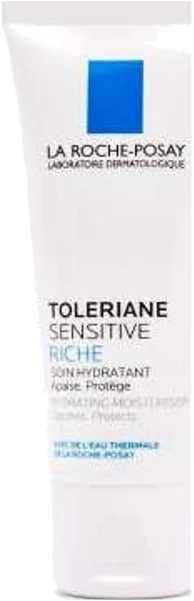
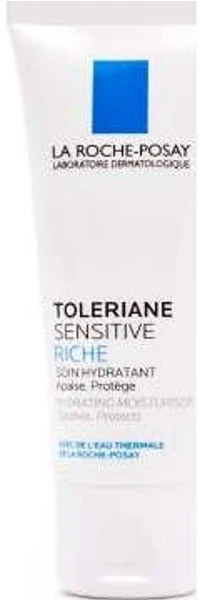
Cartes routines : produits en fond blanc fusionne (multiply), nouveau titre de section
Claude-Session: https://claude.ai/code/session_01RQ4GMeZytdPi95et2aZoPf

diff --git a/frontend/src/components/SkinRoutinesSection.jsx b/frontend/src/components/SkinRoutinesSection.jsx
@@ -14,12 +14,12 @@ export default function SkinRoutinesSection() {
   return (
     <section className="relative px-6 py-20 md:py-24" data-testid="skin-routines-section">
       <div className="max-w-7xl mx-auto">
-        <div className="text-center max-w-2xl mx-auto">
+        <div className="text-center max-w-4xl mx-auto">
           <p className="text-xs uppercase tracking-[0.2em] text-[#79C1E0] font-semibold">Nos routines sur mesure</p>
-          <h2 className="mt-3 text-3xl md:text-4xl font-bold leading-tight text-neutral-900">
-            <span className="text-[#79C1E0]">Une peau unique,</span> <span className="editorial text-[#F2709C]">des solutions adaptées.</span>
+          <h2 className="mt-3 text-3xl md:text-5xl font-bold text-[#79C1E0] leading-tight">
+            Trouve la routine parfaite <span className="editorial text-[#FEC4D2]">pour ta peau</span>
           </h2>
-          <p className="mt-4 text-neutral-600 leading-relaxed">
+          <p className="mt-4 text-neutral-600 leading-relaxed max-w-2xl mx-auto">
             Peau grasse, taches, boutons ou sécheresse : choisis ton besoin et découvre la routine et les produits adaptés, sélectionnés parmi les meilleurs soins du moment.
           </p>
         </div>
@@ -61,10 +61,10 @@ export default function SkinRoutinesSection() {
                         rel="sponsored nofollow noopener noreferrer"
                         title={p.name}
                         aria-label={p.name}
-                        className={`block w-[38%] shrink-0 transition-transform duration-300 hover:-translate-y-1 ${i === 1 ? "h-64 relative z-10" : "h-48"}`}
+                        className={`group block w-[38%] shrink-0 ${i === 1 ? "h-64" : "h-48"}`}
                         data-testid={`skin-product-${r.key}-${i + 1}`}
                       >
-                        <img src={p.img} alt={p.name} loading="lazy" className="w-full h-full object-contain drop-shadow-[0_6px_8px_rgba(0,0,0,0.18)]" />
+                        <img src={p.img} alt={p.name} loading="lazy" className="w-full h-full object-contain mix-blend-multiply transition-transform duration-300 group-hover:-translate-y-1" />
                       </a>
                     ))}
                   </div>
